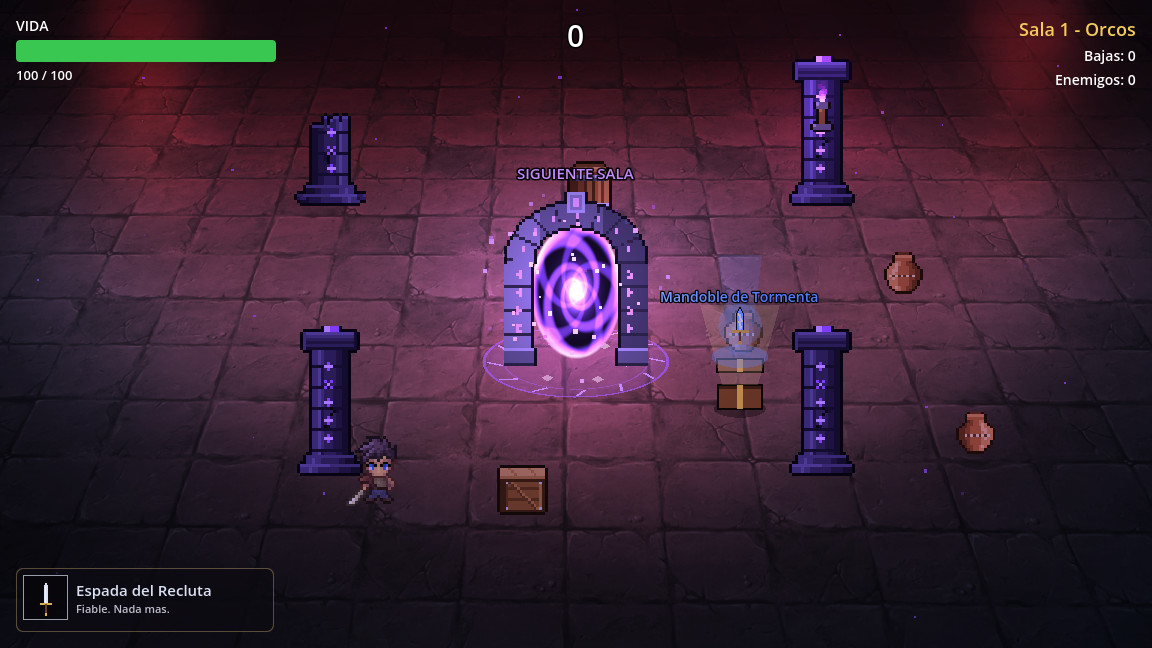
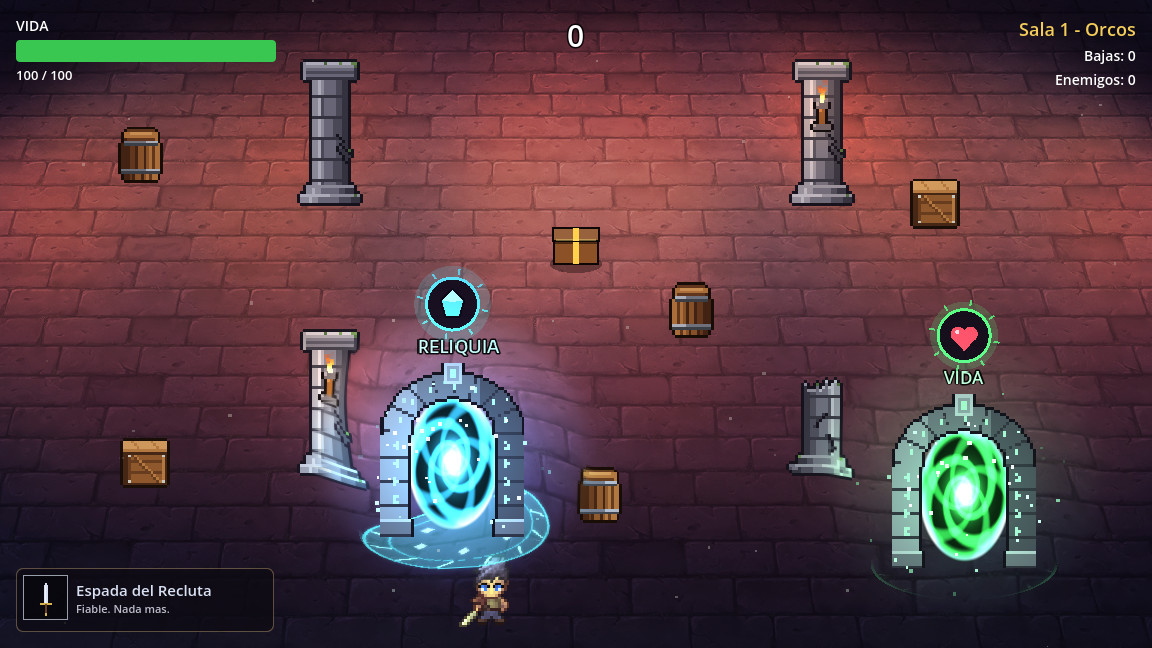
feat: portales con eleccion de recompensa, portal de jefe y llegada a la sala

diff --git a/README.md b/README.md
@@ -17,7 +17,7 @@
 
 ## El juego
 
-Eres un espadachín atrapado en una mazmorra que cambia a cada paso. Cada sala trae una tanda de enemigos; cuando caen todos aparecen un **cofre** y un **portal** hacia la siguiente. Por el camino te esperan dos jefes, armas con poderes propios y reliquias que se acumulan durante la partida.
+Eres un espadachín atrapado en una mazmorra que cambia a cada paso. Cada sala trae una tanda de enemigos; cuando caen todos aparecen un **cofre** y **dos portales**, y tú eliges a cuál entrar según la recompensa que anuncian. Por el camino te esperan dos jefes, armas con poderes propios y reliquias que se acumulan durante la partida.
 
 La mecánica central da nombre al juego: el **Dash Strike**. El dash golpea a todo lo que atraviesas y, si mata a alguien, **se recarga al instante**. Bien encadenado, puedes cruzar una sala entera de enemigo en enemigo.
 
@@ -37,7 +37,8 @@ La mecánica central da nombre al juego: el **Dash Strike**. El dash golpea a to
 - Cada sala tiene una distribución distinta de **columnas** (cubren de los proyectiles) y **cajas, barriles y vasijas** rompibles que a veces sueltan vida.
 - Antes de aparecer, cada enemigo marca el suelo con un círculo rojo.
 - Los enemigos **rodean los obstáculos** con un mapa de navegación que se genera en cada sala.
-- Al despejarla cae un **portal**: un arco de piedra con un vórtice que se acelera cuando te acercas.
+- Al despejarla aparecen **dos portales** para elegir camino: cada uno anuncia con un emblema la recompensa de la sala siguiente (**arma**, **reliquia** o **vida**). Antes de un jefe solo hay uno, rojo y con calavera.
+- Los portales son arcos de piedra con un vórtice que distorsiona el aire y se acelera cuando te acercas. Al entrar, la cámara se acerca y apareces en la sala nueva saliendo de otro portal.
 
 **Jefes**
 | Reina Carnívora | Conde Vampiro |
@@ -64,7 +65,7 @@ Las reliquias se acumulan y se cogen con solo pasar por encima: **Corazón de Dr
 
 <p align="center">
   <img src="docs/screenshots/portal.jpg" alt="Sala despejada con portal y cofre" width="85%">
-  <br><sub>Sala despejada: el portal a la siguiente sala y un cofre con un arma nueva.</sub>
+  <br><sub>Sala despejada: el cofre con la recompensa y dos portales para elegir la siguiente.</sub>
 </p>
 
 **Cuatro escenarios**
